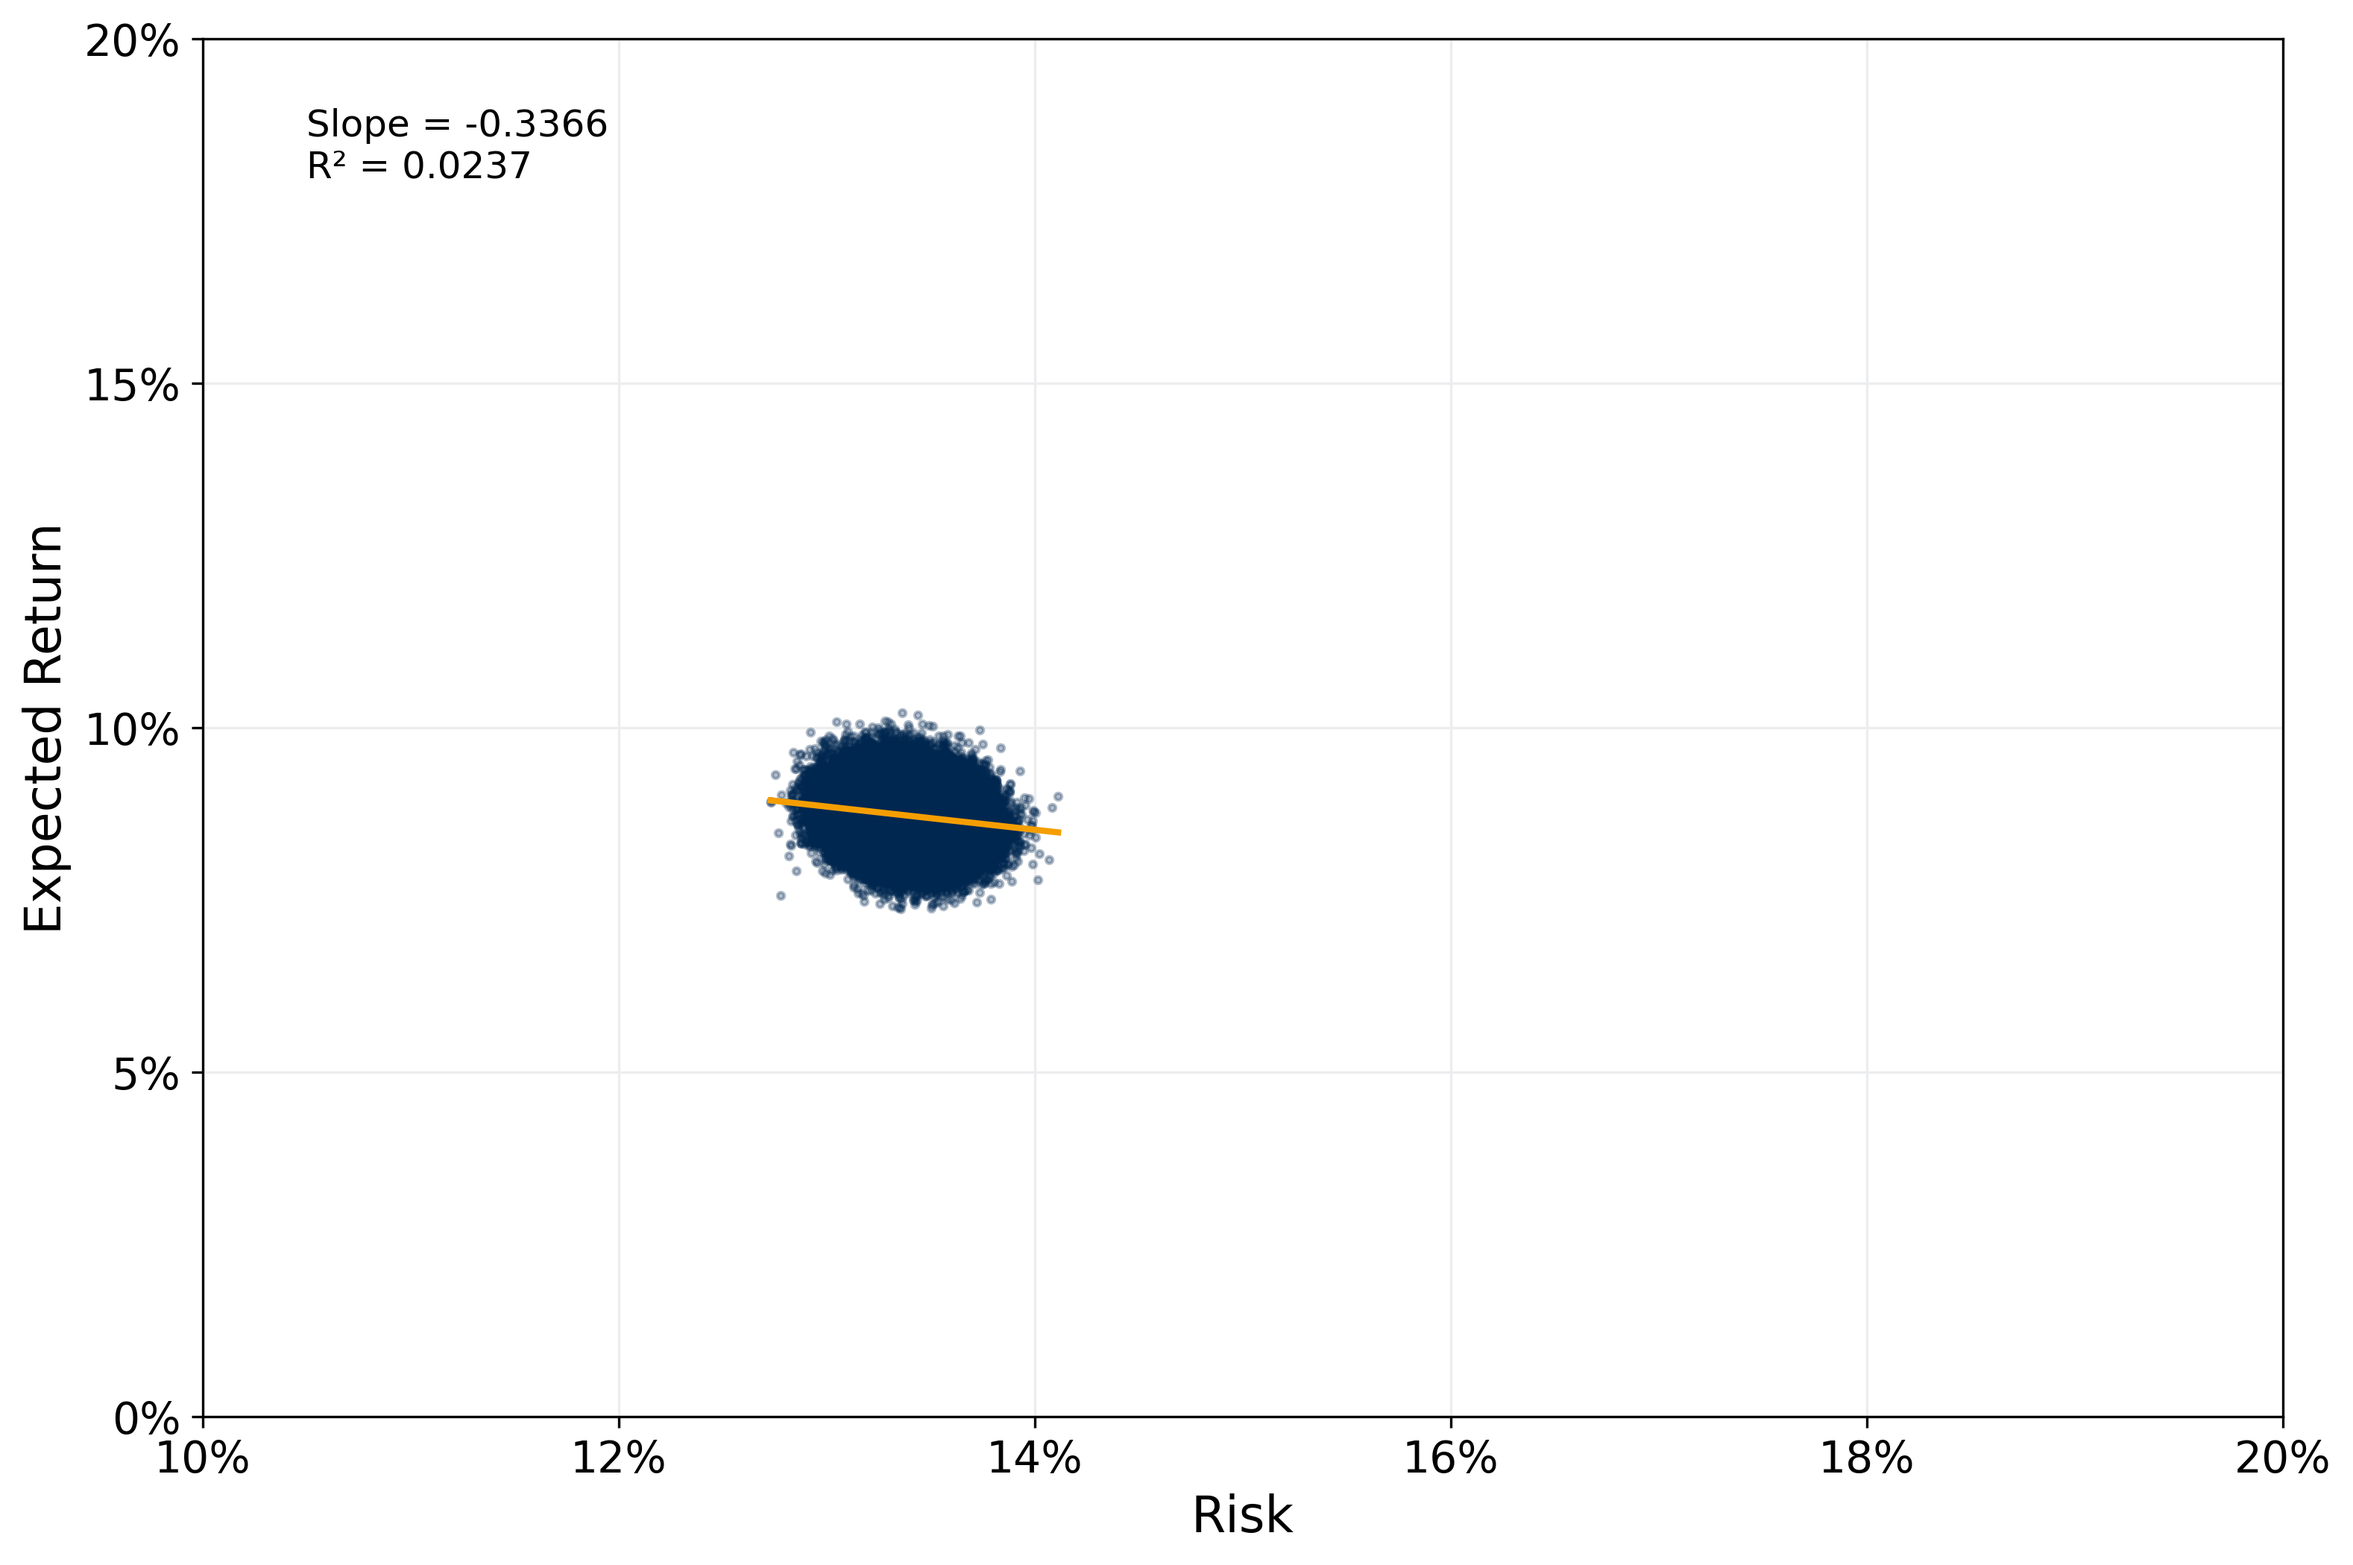
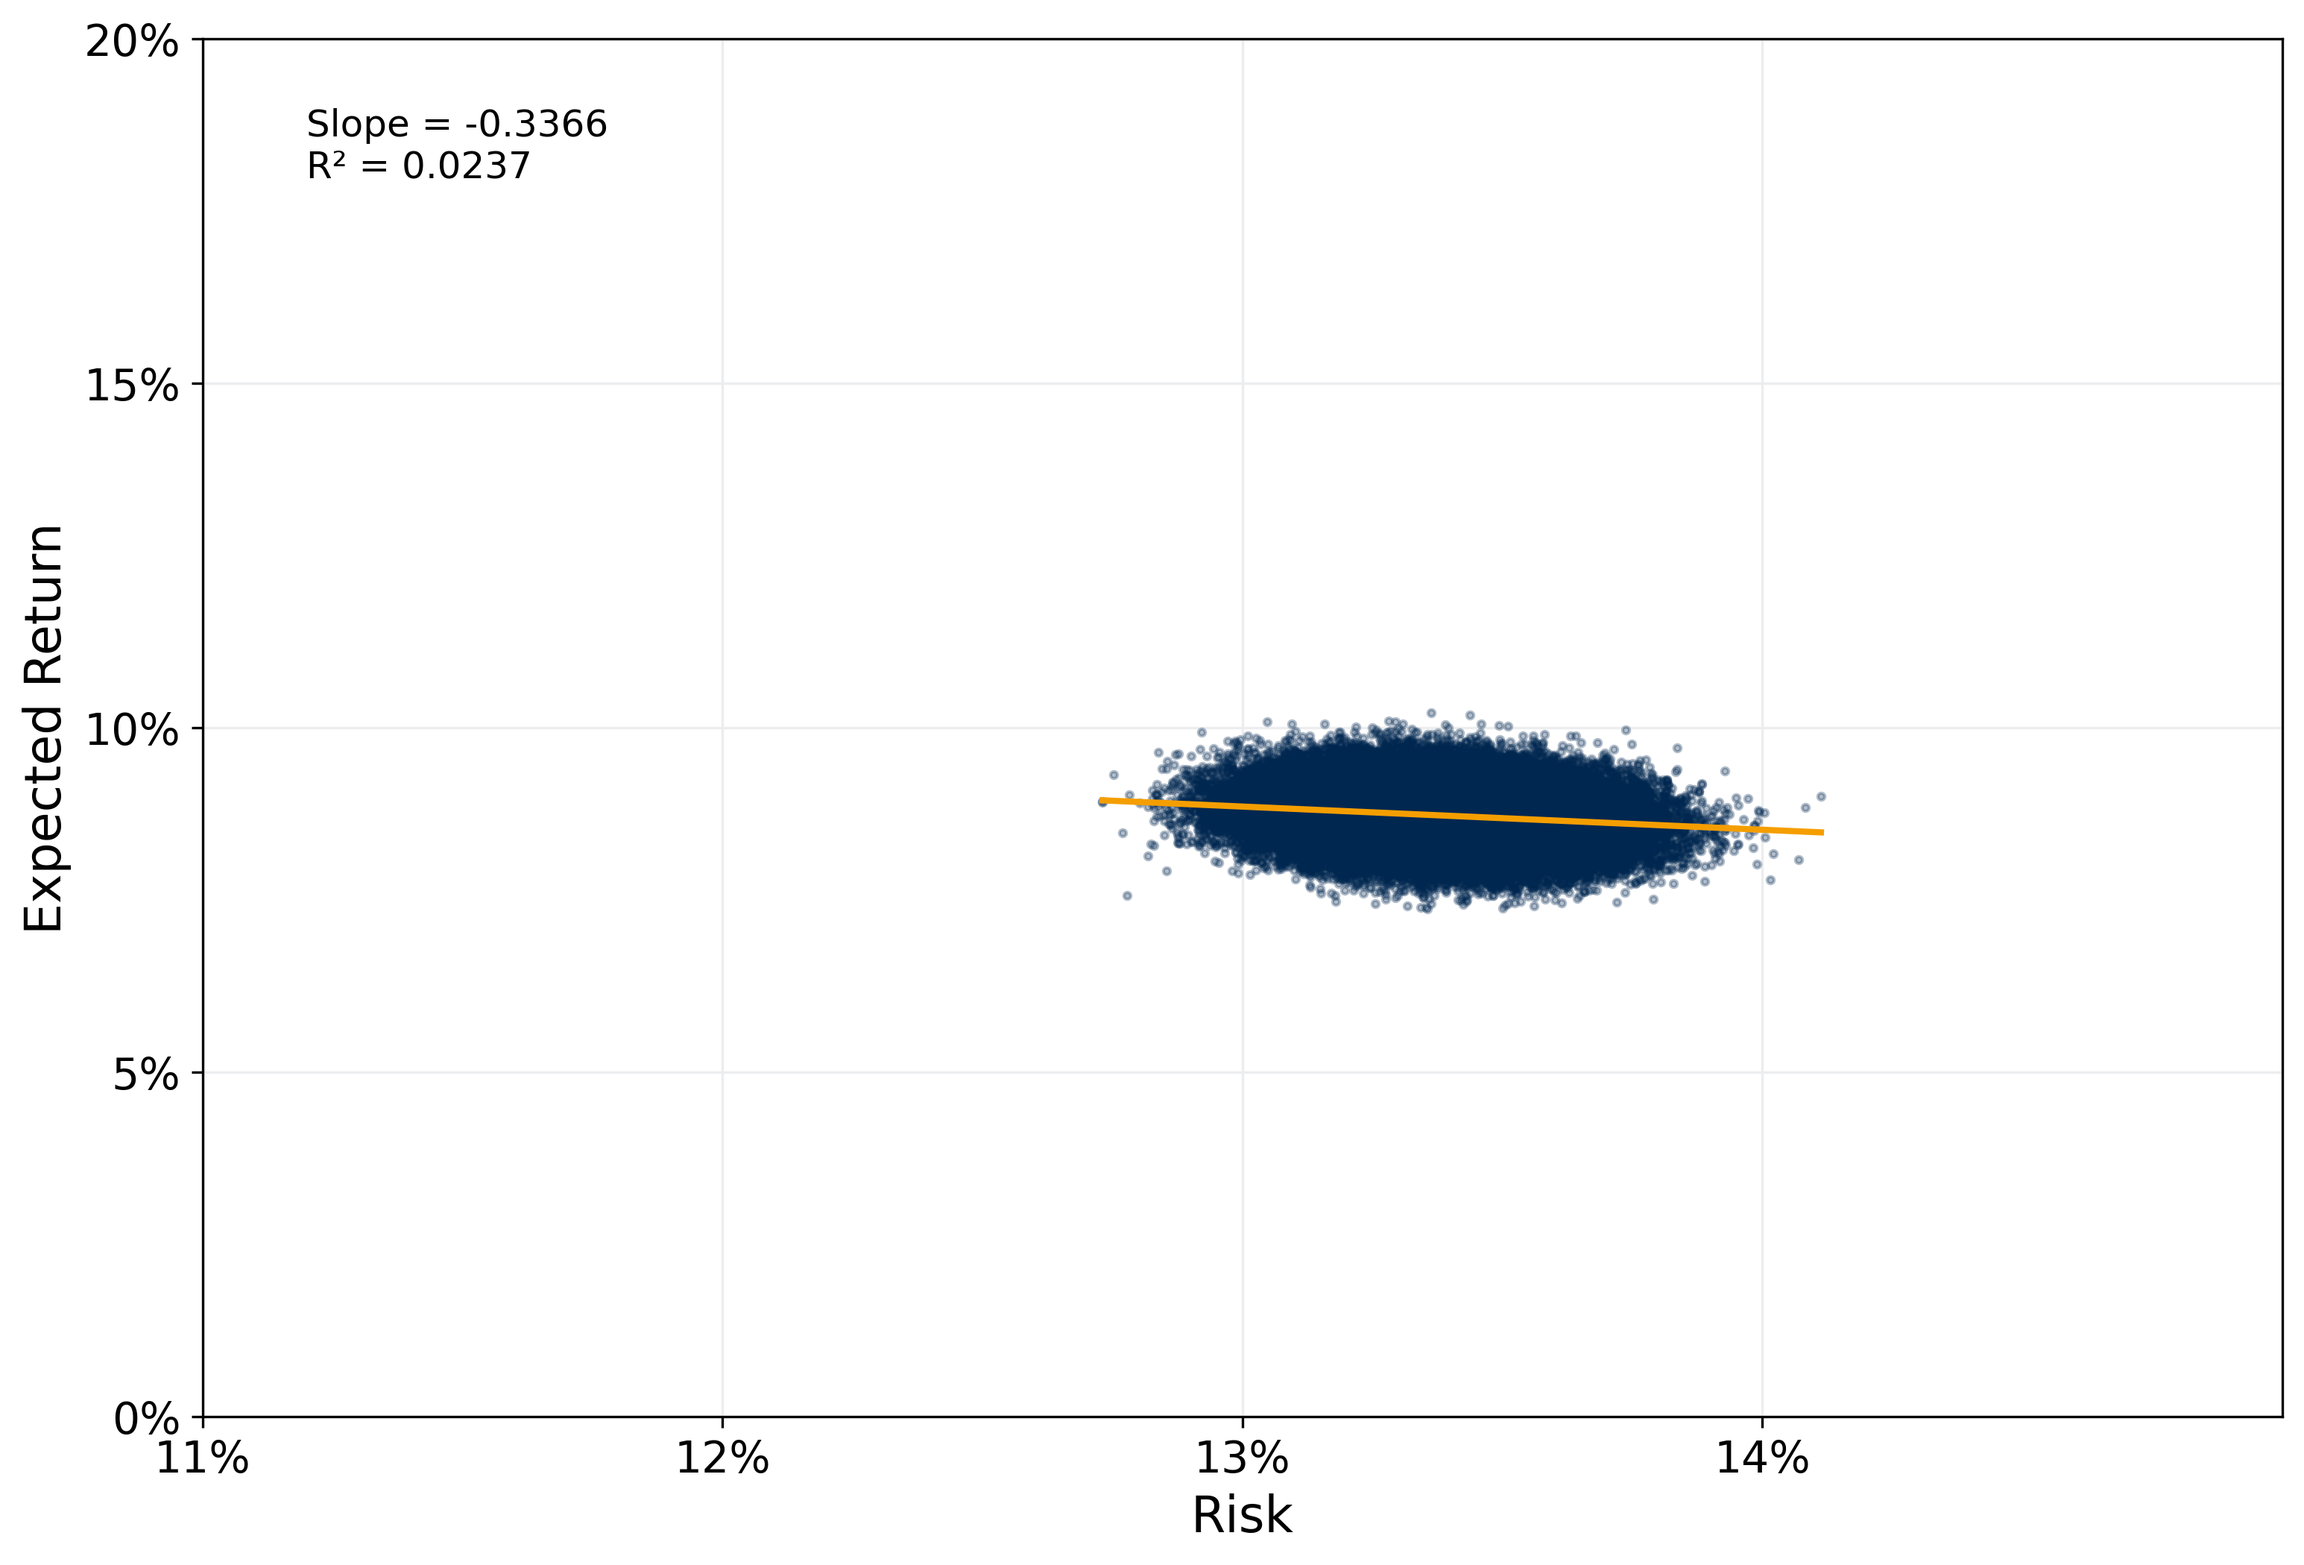
* Add Status Quo

diff --git a/Final/analysis.py b/Final/analysis.py
@@ -806,10 +806,10 @@ def plot_mc_risk_return(portfolios: pd.DataFrame, freq: str):
     plt.gca().xaxis.set_major_formatter(PercentFormatter(1, decimals=0))
     plt.gca().yaxis.set_major_formatter(PercentFormatter(1, decimals=0))
 
-    plt.xlim(0.1, 0.2)
+    plt.xlim(0.11, 0.15)
     plt.ylim(0, 0.2)
 
-    plt.xticks(np.arange(0.1, 0.21, 0.02), fontsize=14)
+    plt.xticks(np.arange(0.11, 0.15, 0.01), fontsize=14)
     plt.yticks(np.arange(0, 0.21, 0.05), fontsize=14)
 
     plt.xlabel("Risk", fontsize=16)
@@ -883,8 +883,8 @@ def plot_mc_esg_return(portfolios: pd.DataFrame, freq: str):
     plt.ylim(0, 0.20)
     plt.yticks(np.arange(0, 0.21, 0.05), fontsize=14)
 
-    plt.xlim(65, 75)
-    plt.xticks(np.arange(65, 75.01, 2), fontsize=14)
+    plt.xlim(66, 73)
+    plt.xticks(np.arange(66, 73, 1), fontsize=14)
 
     plt.xlabel("ESG Score", fontsize=16)
     plt.ylabel("Expected Return", fontsize=16)

diff --git a/Efficient_Frontier/regression.py b/Efficient_Frontier/regression.py
@@ -31,8 +31,8 @@ def get_data(tickers):
             fields=["TR.TRESGScore.date", "TR.TotalReturn1Wk", "TR.TRESGScore", "TR.GovernancePillarScore", "TR.EnvironmentPillarScore", "TR.SocialPillarScore"],
             parameters={
                 "Frq": "W",
-                "SDate": "2023-01-01",
-                "EDate": "2024-12-31"
+                "SDate": "2022-01-01",
+                "EDate": "2022-12-31"
             }
         )
         latest = data.sort_values("Date").iloc[[-1]]
